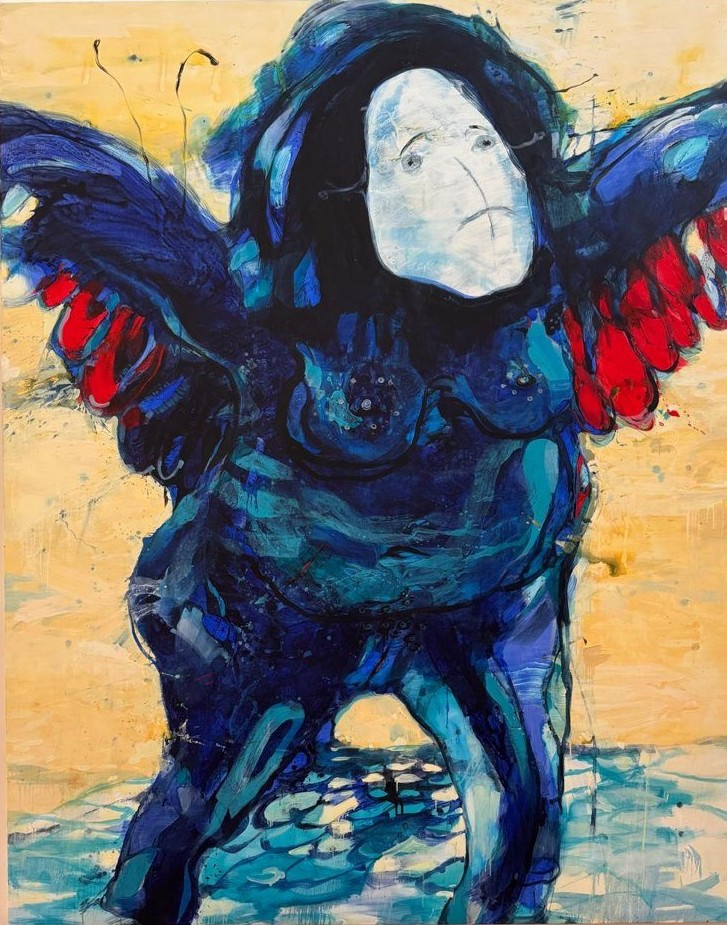
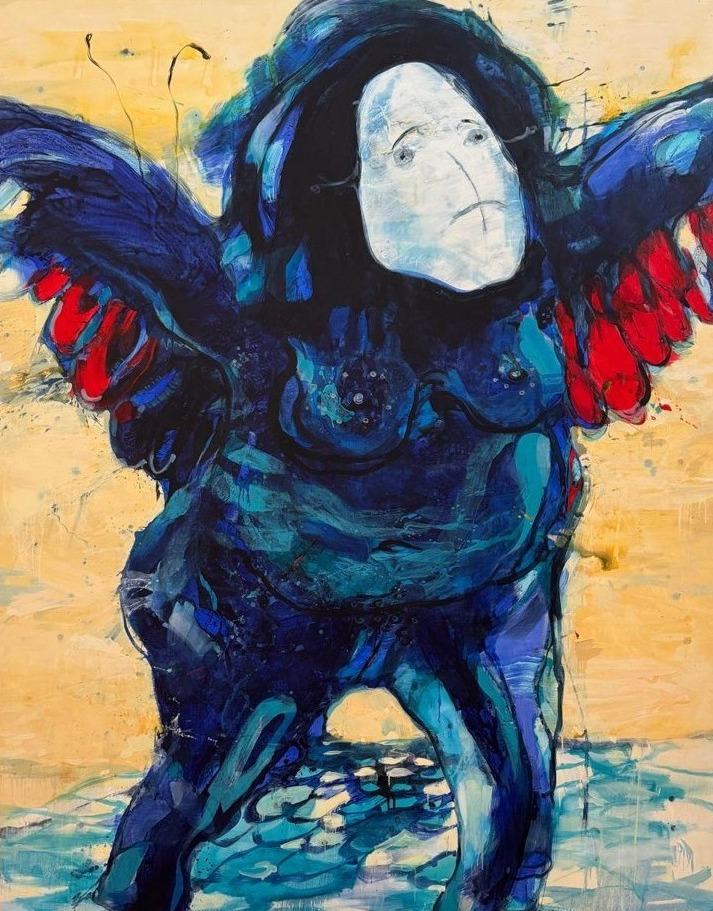
Trim remaining wall edges from Vilmantas works 1 and 2
Claude-Session: https://claude.ai/code/session_016Lo5qMsXVYYyB4rEtzvvTs

diff --git a/index.html b/index.html
@@ -189,8 +189,8 @@ body[data-view]:not([data-view="home"]) .bio{padding-top:300px}
 </div></div></section>
 
 <section id="vilmantas" class="dark bio"><div class="wrap"><h2>Vilmantas Marcinkevičius</h2><p>Vilmantas Marcinkevičius is one of the most prominent contemporary neo-expressionist painters in Northern Europe. His painting <em>Tired Man</em> is part of the European Parliament’s art collection, acquired in 2008, and his work is also held by the MO Museum and the Lithuanian National Museum of Art, the TAAD Foundation and a museum collection in Hiroshima, Japan. He painted portraits for the Danish royal family. Viborg, Denmark, named him Artist of the Year in 2000. He has held 30 solo exhibitions across Lithuania, Denmark, France, Sweden and the Faroe Islands. For nearly two decades he has worked with Galleri NB, one of Denmark’s strongest galleries, and in 2021 his paintings were presented in the United Arab Emirates and South Africa.</p><p>As co-founder of the Young Painter Prize, he helps choose winners whose work enters Lithuania’s national museum collection. The prize now brings finalists together in international exhibitions. In 2026 the Museo Civico Pietro Cavoti in Galatina, Italy, presented <em>First, We Bite: Icons, Offerings and the Feminine in Ritual</em>, his joint exhibition with Indra Marcinkevičienė, curated by Neringa J. Miller. He divides his time between Lithuania and Galatina, in southern Italy.</p><p>His work is now introduced to American collectors through SAVAS Art House.</p></div></section>
-<section id="vilmantas-works" class="wall"><div class="wrap"><h3 style="margin-bottom:1rem">Selected works</h3><div class="vgrid"><article class="work"><img src="img/savas-07.jpg" alt="Painting by Vilmantas Marcinkevičius, work 1" width="727" height="925" loading="lazy"><h3>Title to be confirmed</h3><p>Medium and dimensions to be confirmed<br>Price Upon Request</p><button class="btn" data-art="Vilmantas Marcinkevičius, work 1 (title to be confirmed)">Inquire</button></article>
-<article class="work"><img src="img/savas-08.jpg" alt="Painting by Vilmantas Marcinkevičius, work 2" width="821" height="1000" loading="lazy"><h3>Title to be confirmed</h3><p>Medium and dimensions to be confirmed<br>Price Upon Request</p><button class="btn" data-art="Vilmantas Marcinkevičius, work 2 (title to be confirmed)">Inquire</button></article>
+<section id="vilmantas-works" class="wall"><div class="wrap"><h3 style="margin-bottom:1rem">Selected works</h3><div class="vgrid"><article class="work"><img src="img/savas-07.jpg" alt="Painting by Vilmantas Marcinkevičius, work 1" width="713" height="911" loading="lazy"><h3>Title to be confirmed</h3><p>Medium and dimensions to be confirmed<br>Price Upon Request</p><button class="btn" data-art="Vilmantas Marcinkevičius, work 1 (title to be confirmed)">Inquire</button></article>
+<article class="work"><img src="img/savas-08.jpg" alt="Painting by Vilmantas Marcinkevičius, work 2" width="790" height="985" loading="lazy"><h3>Title to be confirmed</h3><p>Medium and dimensions to be confirmed<br>Price Upon Request</p><button class="btn" data-art="Vilmantas Marcinkevičius, work 2 (title to be confirmed)">Inquire</button></article>
 <article class="work"><img src="img/savas-09.jpg" alt="Painting by Vilmantas Marcinkevičius, work 3" width="782" height="1000" loading="lazy"><h3>Title to be confirmed</h3><p>Medium and dimensions to be confirmed<br>Price Upon Request</p><button class="btn" data-art="Vilmantas Marcinkevičius, work 3 (title to be confirmed)">Inquire</button></article>
 <article class="work"><img src="img/savas-10.jpg" alt="Painting by Vilmantas Marcinkevičius, work 4" width="1000" height="837" loading="lazy"><h3>Title to be confirmed</h3><p>Medium and dimensions to be confirmed<br>Price Upon Request</p><button class="btn" data-art="Vilmantas Marcinkevičius, work 4 (title to be confirmed)">Inquire</button></article>
 <article class="work"><img src="img/savas-11.jpg" alt="Painting by Vilmantas Marcinkevičius, work 5" width="591" height="1000" loading="lazy"><h3>Title to be confirmed</h3><p>Medium and dimensions to be confirmed<br>Price Upon Request</p><button class="btn" data-art="Vilmantas Marcinkevičius, work 5 (title to be confirmed)">Inquire</button></article>
